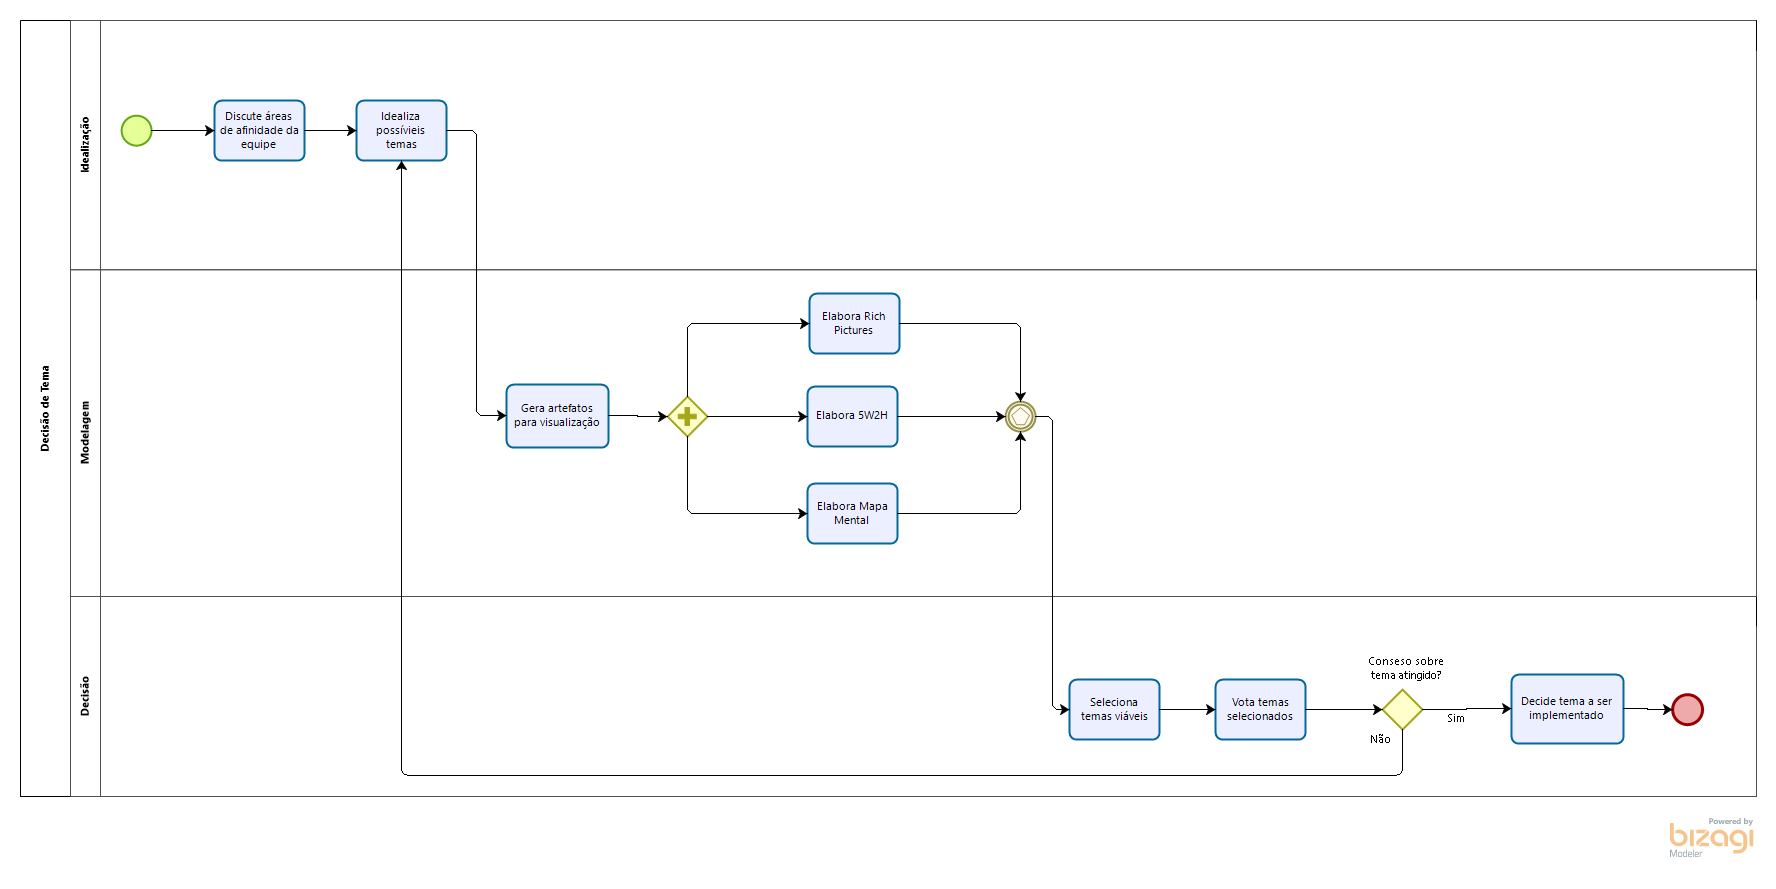
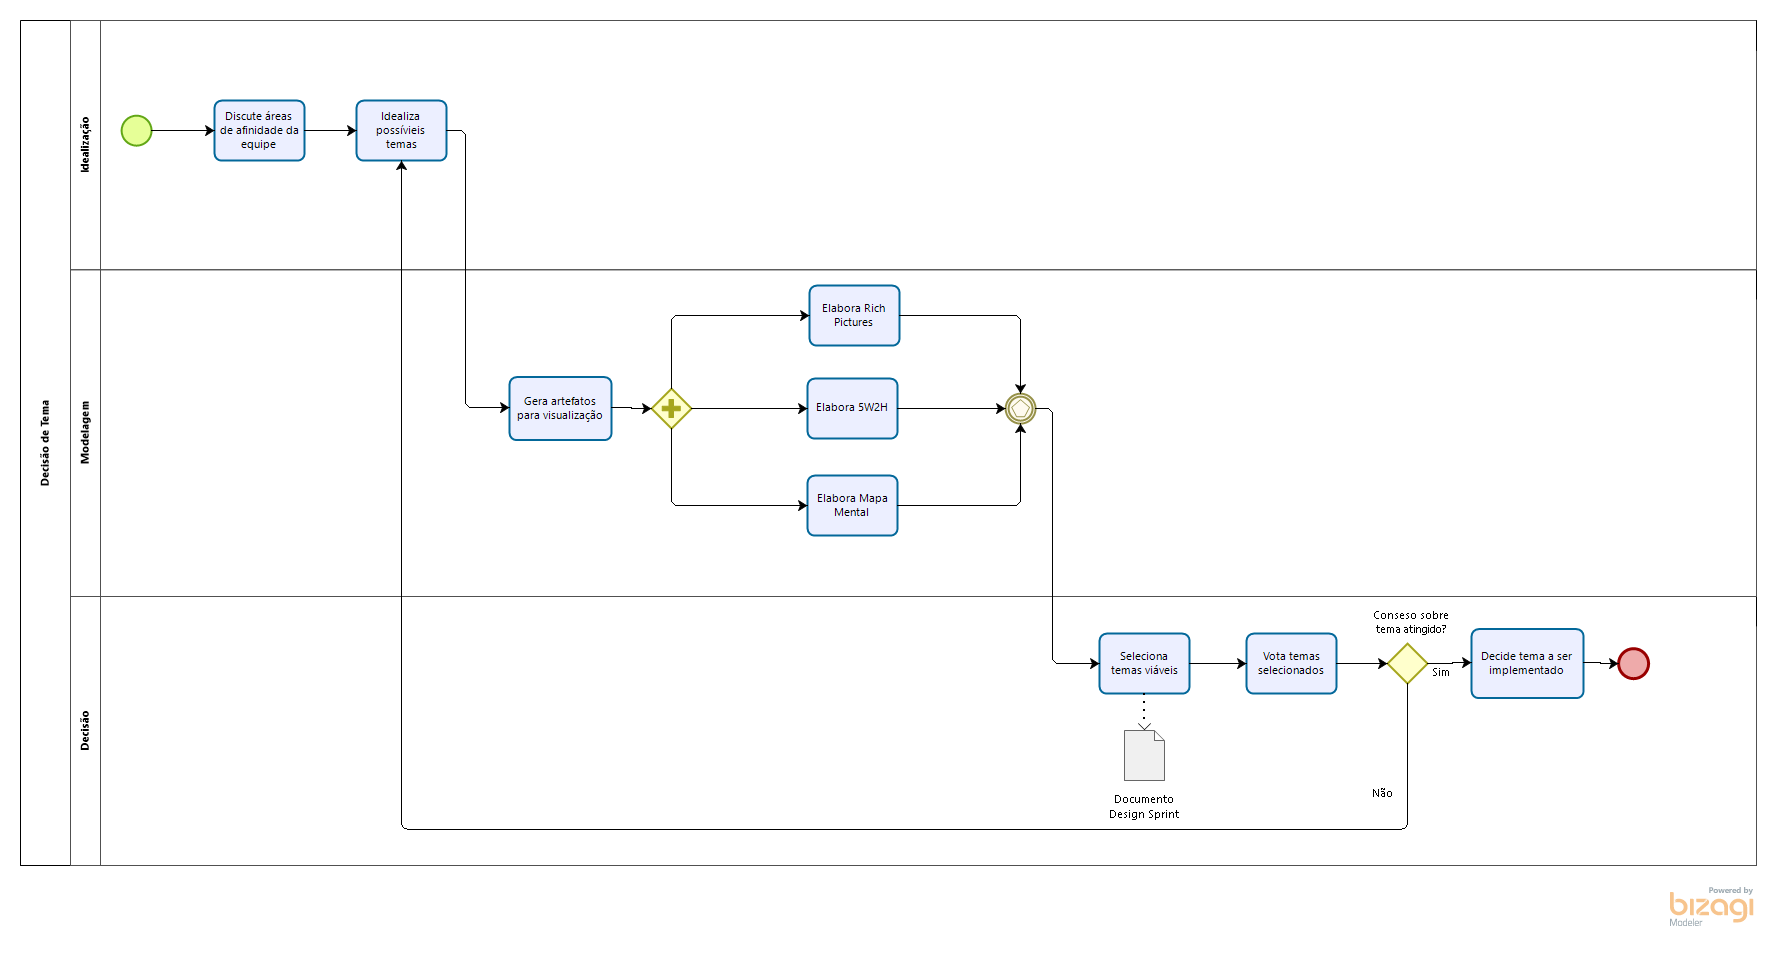
Refactor methodology diagrams, including artefacts.

diff --git a/docs/documentos/metodologia.md b/docs/documentos/metodologia.md
@@ -1,53 +1,89 @@
 ## Histórico de Revisão:
 | Data | Versão | Descrição | Autor |
 |---|---|---|---|
-|12/04/2019|1.0|Primeira versão do documento|Gabriela Guedes|
+|12/04/2019 | 0.1 | Primeira versão do documento | Gabriela Guedes |
+|12/04/2019 | 0.2 | Inclusão dos diagramas modelados em Bizagi | Todos os Integrantes do Grupo |
+|27/04/2019 | 0.3 | Refatoração dos diagramas incluindo artefatos | Renan Schadt |
+|29/04/2019 | 0.4 | Inclusão dos tópicos 2 e 3 | Renan Schadt |
  
-## Introdução
-A metodologia adotada no projeto foi baseada nas metodologias Scrum, Kanban, XP e RUP e se inspirando nessas metodologias, foi criada a metodologia próprio do projeto. A documentação da metodologia montada foi feita através do Bizagi. 
+## 1. Introdução
+Este documento tem por finalidade definir a metodologia a ser utilizada no projeto, mostrando através dos diagramas feitos no Bizagi, as rotinas e artefatos da equipe até a finalização do desenvolvimento.
 
-## Metodologia Montada
+## 2. Metodologias de Base
+### 2.1 Scrum
+O Scrum é uma metodologia ágil que contém diversas rotinas para manter a equipe engajada e atualizada sobre o projeto, a se organizarem enquanto resolvem um problema e a refletirem sobre os êxitos e fracassos para melhorarem continuamente. Scrum é um framework estrutural usado para gerenciar o desenvolvimento de produtos. Ele é fundado nos princípios de transparência, inspeção e adaptação. Aos princípios do Scrum integramos eventos, papéis e artefatos, administrando as relações e interações entre eles.
 
-### Funcionamento Geral
+Os papéis do Scrum são Product Owner, Scrum Master e time de desenvolvimento. O Product Owner é o responsável por maximizar o valor do produto e gerenciar o Product Backlog, garantindo que ele está claro para toda equipe. O Scrum Master tem a função de garantir que a equipe está cumprindo as regras da metodologia. O time de desenvolvimento, tem a função de incrementar o produto a cada sprint.
+
+Os eventos do Scrum são: Sprint (período de um mês ou menos onde a equipe se dedica a incrementar o produto), Planejamento de Sprint (reunião ao início de cada sprint onde a equipe decide o que será feito nesta), Review e Retrospectiva da Sprint (a equipe analisa como foi a sprint e quais atividades atividades e artefatos alocados a ela foram finalizados) e Daily (reunião diária para alinhamento da equipe sobre o andamento da sprint).
+
+Os artefatos do Scrum são: Product Backlog (lista ordenada de tudo que é necessário no produto), Sprint Backlog (conjunto de itens do backlog do produto selecionados para a sprint) e Incremento (soma de todos os itens do backlog do produto completados durante uma sprint).
+
+![](https://i2.wp.com/www.scrumportugal.pt/wp-content/uploads/como-funciona-o-scrum.png?fit=1300%2C570)
+
+### 2.2 Kanban
+O Kanban, trata-se de uma simbologia visual usada no desenvolvimento de produtos para registrar o progresso das atividades. Essa metodologia foi criada pela empresa Toyota e integra o famoso sistema Toyota de produção.
+
+O Kanban é orientado através de colunas, em que cada uma representa diferentes estados de completeza de uma atividade (a fazer, fazendo, feito), as atividades (cartões visuais) vão transitando entre as colunas, mostrando o andamento do projeto. 
+
+![](https://blog.caelum.com.br/wp-content/uploads/2016/01/kanban.jpg)
+
+### 2.3 XP
+XP é um apelido carinhoso de uma nova metodologia de desenvolvimento designada Extreme Programming, com foco em agilidade de equipes e qualidade de projetos, apoiada em valores como simplicidade, comunicação e feedback constante.
+
+Extreme Programming é dinâmica e flexível, entre as suas "boas práticas" é possível citar: TDD, Comentários em código, diversas entregas pequenas, programação em pares, testes de aceitação, planejamento por pontos, refatoramento, presença constante do cliente, integração contínua, entre outros.
+
+### 2.4 RUP
+
+## 3. Metodologia Montada
+A metodologia adotada no projeto foi uma híbrida, baseada nas metodologias Scrum, Kanban, XP e RUP.
+Decidimos utilizar uma metodologia híbrida, pois nenhuma das metodologias puristas se encaixava em nosso contexto. Seja pelo excesso de documentação, no caso do RUP; excesso de rotinas, no caso do Scrum; ou pela falta destas, no caso do XP e Kanban.
+
+## 4. Diagramas
+
+### 4.1 Funcionamento Geral
 
 ![](../assets/metodologia/funcionamento_sprints-v2.png)
 
-### Processo de Decisão de Tema
+### 4.2 Processo de Decisão de Tema
 
 ![](../assets/metodologia/planejamento_definicao-de-tema.png)
 
-### Processo Decisão de Metodologia
-
+### 4.3 Processo Decisão de Metodologia
 ![](../assets/metodologia/planejamento_definicao_metodologia.png)
 
-### Processo Decisão de Tecnologia
+### 4.4 Processo Decisão de Tecnologia
 
 ![](../assets/metodologia/planejamento_definicao-de-tecnologia.png)
 
-### Definição do Backlog
+### 4.5 Definição do Backlog
 
 ![](../assets/metodologia/BacklogGeral-2.png)
 
-### Documentação
+### 4.6 Documentação
 
 ![](../assets/metodologia/planejamento_documentacao.png)
 
-### Sprint Review
+### 4.7 Sprint Review
 
 ![](../assets/metodologia/sprint-review.png)
 
-### Sprint Planning
+### 4.8 Sprint Planning
 
 ![](../assets/metodologia/sprint-planning.png)
 
-### Funcionamento da Sprint
+### 4.9 Funcionamento da Sprint
 
 ![](../assets/metodologia/SprintNovoModelo2.png)
 
-### Acompanhamento da Sprint
+### 4.10 Acompanhamento da Sprint
 
 ![](../assets/metodologia/acompanhamento_da_sprint.png)
 
-### Ponto de Controle
+### 4.11 Ponto de Controle
 
 ![](../assets/metodologia/PontoDeControle.png)
+
+
+## 5.0 Referências
+ * [Guia do Scrum](https://www.scrumguides.org/docs/scrumguide/v1/Scrum-Guide-Portuguese-BR.pdf)
